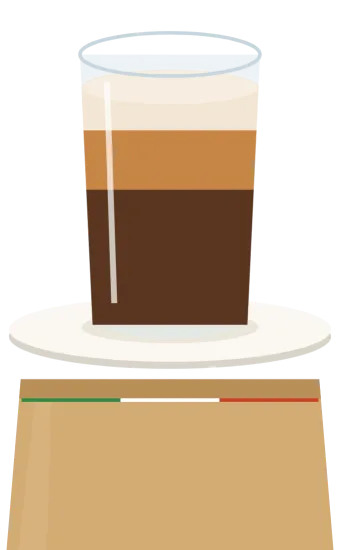
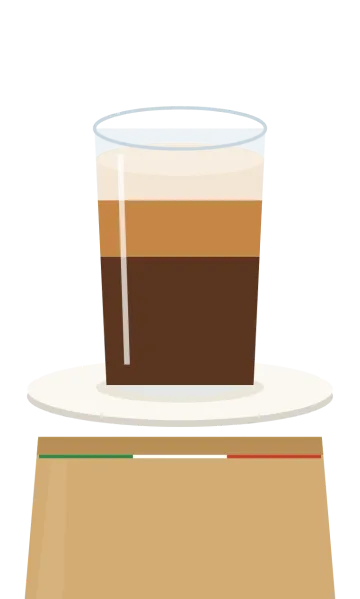
Use the re-exported product templates (756 x 1257, whole product)
The Figma templates now include the pizza tip and sleeve, so all 18
app images come straight from templates/cloudinary/product-base-*.png
again (360 px WebP) and the pizza SVG workaround is removed. Includes
the new truffle pizza art.

Changed region(s): [[0.0, 0.0618, 1.0, 1.0], [0.4118, 0.0309, 0.5882, 0.0618]]

diff --git a/app/src/screens/welcome.ts b/app/src/screens/welcome.ts
@@ -10,7 +10,7 @@ export function welcome(go: Go): HTMLElement {
     h(
       'div',
       { class: 'hero', 'aria-hidden': 'true' },
-      ...PRODUCT_TYPES.map((t) => h('img', { src: art(t, PRODUCTS[t].heroArt), alt: '', width: 110, height: 178, fetchpriority: 'high' })),
+      ...PRODUCT_TYPES.map((t) => h('img', { src: art(t, PRODUCTS[t].heroArt), alt: '', width: 110, height: 183, fetchpriority: 'high' })),
     ),
     h('h1', { tabindex: -1 }, copy.welcome.title),
     h('p', { class: 'lead' }, copy.welcome.body),

diff --git a/app/src/labelPreview.ts b/app/src/labelPreview.ts
@@ -7,7 +7,7 @@ const STICKER = 64;
 
 /** Screen 05 live product preview: the product art plus the kraft label drawn in HTML. */
 export function createPreview() {
-  const img = h('img', { class: 'preview-art', alt: '', width: 170, height: 275 });
+  const img = h('img', { class: 'preview-art', alt: '', width: 170, height: 283 });
   const sticker = h('div', { class: 'sticker', role: 'img', 'aria-label': 'Your selfie' });
   const name = h('div', { class: 'label-name' });
   const fav = h('div', { class: 'label-fav' });

diff --git a/app/src/screens/classic.ts b/app/src/screens/classic.ts
@@ -35,7 +35,7 @@ export function classic(go: Go): HTMLElement {
       'label',
       { class: 'card', for: `type-${t}` },
       input,
-      h('img', { src: art(t, p.heroArt), alt: '', width: 68, height: 110 }),
+      h('img', { src: art(t, p.heroArt), alt: '', width: 68, height: 113 }),
       h('span', { class: 'card-text' }, h('span', { class: 'card-title' }, p.label), h('span', { class: 'card-sub' }, p.tagline)),
       h('span', { class: 'check', 'aria-hidden': 'true', html: CHECK_SVG }),
     );

diff --git a/WIZARD-CONTENT.md b/WIZARD-CONTENT.md
@@ -88,7 +88,7 @@ The app is built: `products/booth-wizard/app/` (README for run and deploy, TESTI
 
 - Step 02 (changed 2026-09-28): free-text name, no employee list; email = typed prefix + fixed `@cloudinary.com`.
 - Header logo: `logo/cloudinary-everywhere-field-navy-cloud13.png` (the latest Everywhere mark, 2026-09-26), not the plain Cloudinary badge.
-- Pizza art in the app shows the whole slice. `product-base-pizza-*.png` crops the tip at the slot's top edge (fine on the magnet), so the app renders pizza from `templates/figma/product-pizza-*.svg` with a taller viewBox. The Cloudinary `product-base-pizza` files are unchanged; the web renditions (landing, PDP, email) will show the same crop unless those are re-exported.
+- Pizza art in the app shows the whole slice. FIXED at the source 2026-09-28: all 18 `product-base-*.png` and `figma/product-*.svg` now use a wider canvas (32.0 x 53.2 mm, 756 x 1257 px), so the pizza tip and sleeve are no longer cut anywhere, including the web renditions. The app art is rebuilt from the PNGs for all three products (`scripts/build-art.sh`); `render-pizza.py` is no longer used. The truffle slice's cream layer also no longer pokes above the crust.
 - Step 03 camera button: "Take a selfie" before the first photo, "Retake" after. Library: "Choose from library".
 - Upload error at step 05: the button turns into "Retry", no extra message. Answers are kept. Timeout 30 s.
 - A photo the phone cannot read at all (e.g. HEIC on Android) shows the normal fail copy ("We could not find a face").

diff --git a/app/README.md b/app/README.md
@@ -46,7 +46,7 @@ The name is free text; the first word goes on the label. The email field takes o
 
 ## Product art
 
-`public/art/` holds WebP copies (340 px wide, 2x display size) of the product art and the header logo (`logo/cloudinary-everywhere-field-navy-cloud13.png`). Gelato and caffè come from `templates/cloudinary/product-base-*.png`. Pizza is rendered from `templates/figma/product-pizza-*.svg` by `scripts/render-pizza.py`, because the print slot crops the tip of the slice; the web version shows the whole slice. Regenerate after art changes with `npm run art` (needs `cwebp` (`brew install webp`), Google Chrome, and the full Cloudinary Everywhere project next to this folder).
+`public/art/` holds WebP copies (360 px wide, 2x display size) of the 18 `templates/cloudinary/product-base-*.png` files (756 x 1257, whole product) and the header logo (`logo/cloudinary-everywhere-field-navy-cloud13.png`). Regenerate after art changes with `npm run art` (needs `cwebp` (`brew install webp`) and the full Cloudinary Everywhere project next to this folder).
 
 ## Deploy
 

diff --git a/BUILD-PROMPT.md b/BUILD-PROMPT.md
@@ -47,7 +47,7 @@ An unsigned upload cannot update an asset's metadata afterwards, so upload ONCE,
 
 ## Product art
 
-- Copy these from `templates/cloudinary/` into the app, converted to WebP at 2x display size: all 18 `product-base-{type}-{variant}.png` (678 x 1096, transparent).
+- Copy these from `templates/cloudinary/` into the app, converted to WebP at 2x display size: all 18 `product-base-{type}-{variant}.png` (756 x 1257, transparent, whole product).
 - Welcome hero and screen 04 cards: `pizza-own-answer` (margherita slice), `gelato-pistachio`, `caffe-cappuccino`.
 - Screen 05 preview: `product-base-{type}-{variant}`, with `own-answer` while "Write your own" is active.
 - Preload the 6 images of the chosen type as soon as screen 04 is answered.
